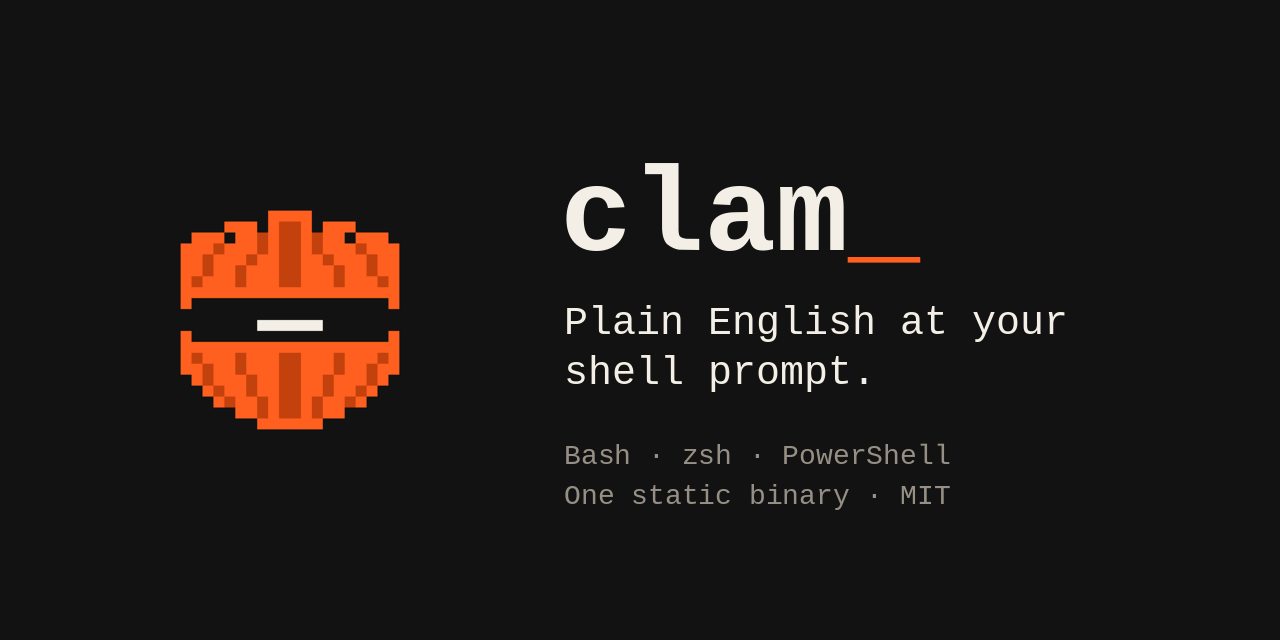
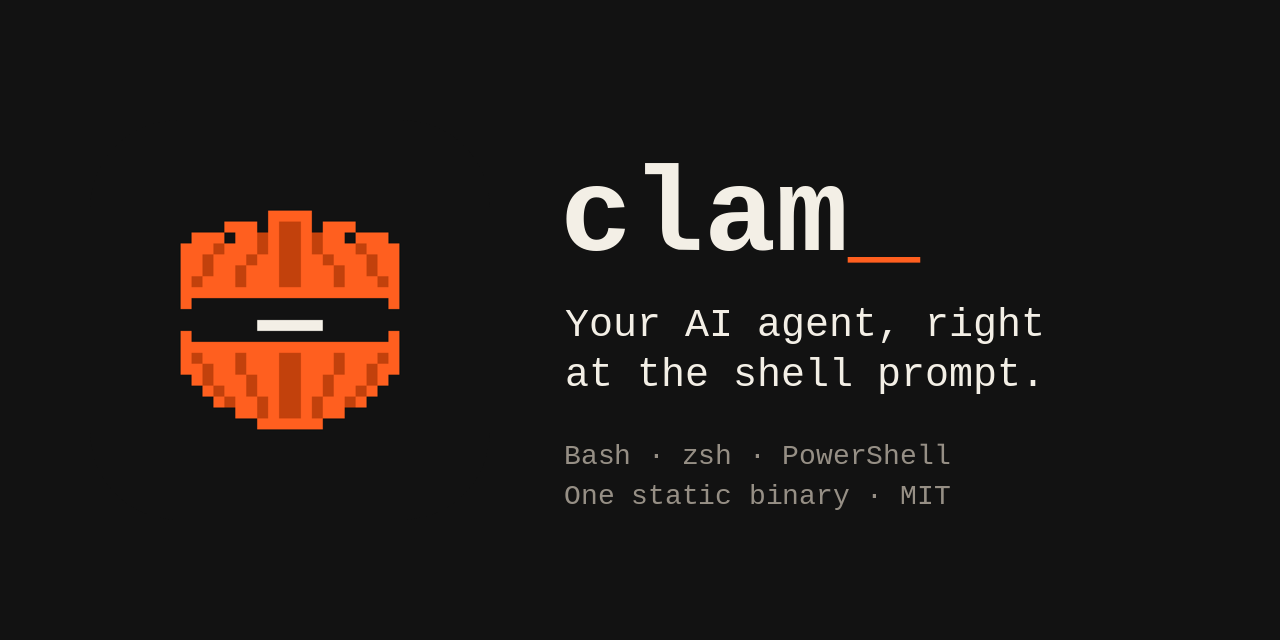
Pitch clam as calling an agent from the shell
The site, README, llms.txt and share card now lead with what clam is
for: calling an LLM or coding agent from the prompt without getting in
the way of regular commands.

Changed region(s): [[0.4375, 0.4688, 0.8438, 0.625]]

diff --git a/docs/index.html b/docs/index.html
@@ -3,19 +3,19 @@
 <head>
 <meta charset="utf-8">
 <meta name="viewport" content="width=device-width, initial-scale=1">
-<title>clam — Plain English at your shell prompt</title>
-<meta name="description" content="clam is an AI terminal assistant for Bash, zsh, PowerShell and Vim, in one small binary. Type a question in plain English at your prompt and get an answer; ordinary commands run as usual. File edits and commands need your approval.">
-<meta name="keywords" content="AI terminal assistant, natural language shell, bash AI, zsh AI plugin, PowerShell AI, command line agent, CLI copilot">
+<title>clam — Your AI agent, right at the shell prompt</title>
+<meta name="description" content="clam lets you call an LLM or coding agent straight from your Bash, zsh or PowerShell prompt. Type a request and the agent handles it; type a command and your shell runs it exactly as before. One static binary; file edits and commands need your approval.">
+<meta name="keywords" content="AI agent in the terminal, LLM from the shell, coding agent CLI, bash AI, zsh AI plugin, PowerShell AI, Codex, Claude Code, OpenCode">
 <meta name="theme-color" content="#f3efe6" media="(prefers-color-scheme: light)">
 <meta name="theme-color" content="#121212" media="(prefers-color-scheme: dark)">
 <meta property="og:type" content="website">
-<meta property="og:title" content="clam — Plain English at your shell prompt">
-<meta property="og:description" content="Ask your terminal anything. Commands run as usual; questions go to an agent that reads your project and asks before it changes anything.">
+<meta property="og:title" content="clam — Your AI agent, right at the shell prompt">
+<meta property="og:description" content="Call an AI agent straight from your shell. Requests go to the agent; regular commands run untouched. Nothing changes without your approval.">
 <meta property="og:url" content="https://duy.run/clam">
 <meta property="og:image" content="https://duy.run/clam/social.png">
 <meta property="og:image:width" content="1280">
 <meta property="og:image:height" content="640">
-<meta property="og:image:alt" content="clam logo and the words: Plain English at your shell prompt">
+<meta property="og:image:alt" content="clam logo and the words: Your AI agent, right at the shell prompt">
 <meta name="twitter:card" content="summary_large_image">
 <meta name="twitter:image" content="https://duy.run/clam/social.png">
 <link rel="canonical" href="https://duy.run/clam">
@@ -31,7 +31,7 @@
   "name": "clam",
   "applicationCategory": "DeveloperApplication",
   "operatingSystem": "Linux, macOS, Windows, FreeBSD",
-  "description": "An AI assistant that answers natural-language requests typed at a Bash, zsh or PowerShell prompt while leaving ordinary commands alone.",
+  "description": "Call an LLM or coding agent straight from a Bash, zsh or PowerShell prompt, without getting in the way of regular shell commands.",
   "license": "https://opensource.org/licenses/MIT",
   "url": "https://duy.run/clam",
   "image": "https://duy.run/clam/social.png",
@@ -116,10 +116,10 @@ footer { margin-top: 80px; border-top: 1px solid var(--rule); }
   <div class="runner" aria-hidden="true"><span>CLAM(1)</span><span>General Commands Manual</span><span>CLAM(1)</span></div>
 
   <main>
-    <h1>Your shell, now<br>fluent in English<span class="hot">_</span></h1>
-    <p class="lede">clam is an AI assistant that lives in your prompt. Commands run. Questions get answered. Nothing changes without a <code>y</code>.</p>
+    <h1>Your AI agent,<br>right at the prompt<span class="hot">_</span></h1>
+    <p class="lede">Call an LLM or coding agent straight from your shell. Type a request and clam hands it to the agent. Type a command and your shell runs it, untouched. Nothing changes without a <code>y</code>.</p>
 
-    <div class="term" id="term" role="img" aria-label="Terminal demo: clam runs ls normally, answers a question in English, then asks permission before adding a --help option to a project">
+    <div class="term" id="term" role="img" aria-label="Terminal demo: ls runs normally, the agent answers a question about the project, then asks permission before adding a --help option">
 <div data-cmd><span class="ps">[c+] <b>~/weather-cli</b> $</span> ls</div>
 <div>index.js  api.js  package.json</div>
 <div data-cmd><span class="ps">[c+] <b>~/weather-cli</b> $</span> what does this project do?</div>
@@ -144,12 +144,12 @@ footer { margin-top: 80px; border-top: 1px solid var(--rule); }
 
     <h2>SYNOPSIS</h2>
     <div class="sec">
-      <p><b>clam init</b> <b>bash</b> | <b>zsh</b> | <b>pwsh</b><br><b>clam</b> [<b>on</b> | <b>off</b> | <b>reset</b>]<br><b>clam auto</b> [<b>on</b> | <b>off</b>]<br><i>any sentence in plain English</i></p>
+      <p><b>clam init</b> <b>bash</b> | <b>zsh</b> | <b>pwsh</b><br><b>clam</b> [<b>on</b> | <b>off</b> | <b>reset</b>]<br><b>clam auto</b> [<b>on</b> | <b>off</b>]<br><i>any request for the agent</i></p>
     </div>
 
     <h2>DESCRIPTION</h2>
     <div class="sec">
-      <p>An AI assistant for Bash, zsh, PowerShell and Vim, shipped as one static binary for Linux, macOS, Windows and FreeBSD. Commands run as usual. Sentences go to an agent that can read your project. Anything that writes or runs asks first.</p>
+      <p>Puts an AI agent one Enter away in Bash, zsh, PowerShell and Vim, without getting in the way of the shell: commands run exactly as they would without clam, and there is no separate chat window or mode to switch into. Requests go to the agent, which can read your project; anything that writes a file or runs a command asks first. Use the built-in agent with any OpenAI-compatible API, or one you already have: Codex, Claude Code, OpenCode, pi, or any command. One static binary for Linux, macOS, Windows and FreeBSD.</p>
     </div>
 
     <h2>INSTALL</h2>
@@ -167,18 +167,18 @@ $ echo 'eval "$(clam init bash)"' &gt;&gt; ~/.bashrc</pre>
 
     <h2>HOW IT WORKS</h2>
     <div class="sec">
-<pre class="code" role="img" aria-label="A line typed at the prompt goes through the shell hook. Commands run as usual. English goes to the agent, which reads files freely and asks before writing files or running commands.">  you press Enter
+<pre class="code" role="img" aria-label="A line typed at the prompt goes through the shell hook. Commands run as usual. Requests go to the agent, which reads files freely and asks before writing files or running commands.">  you press Enter
         |
    shell hook ---- starts with a command -----&gt; runs as usual
         |                                              ^
-   clam check ---- not English ------------------------'
+   clam check ---- not a request ----------------------'
         |
-     English
+     request
         |
       agent ------ read / list / search files --&gt; answer
         |
    write or run? -- Allow? [y/N] -- y --&gt; action runs</pre>
-      <p class="dim">The check runs locally and gives up after a second, so the prompt never waits on the network. Only English reaches the agent.</p>
+      <p class="dim">The check runs locally and gives up after a second, so the prompt never waits on the network. Commands never reach the agent.</p>
     </div>
   </main>
 

diff --git a/README.md b/README.md
@@ -2,7 +2,7 @@
 
 # clam
 
-clam is an AI assistant for your terminal. It answers natural-language requests typed at a Bash, zsh or PowerShell prompt while leaving ordinary commands alone. It can inspect local files and, with approval, change files or run commands. Website: [duy.run/clam](https://duy.run/clam)
+clam lets you call an LLM or coding agent straight from your Bash, zsh or PowerShell prompt, without getting in the way of regular shell commands. Type a request and it goes to the agent; type a command and it runs exactly as before. The agent can inspect local files and, with approval, change files or run commands. Website: [duy.run/clam](https://duy.run/clam)
 
 ![clam answering questions and editing a project from a Bash prompt](docs/demo.gif)
 
